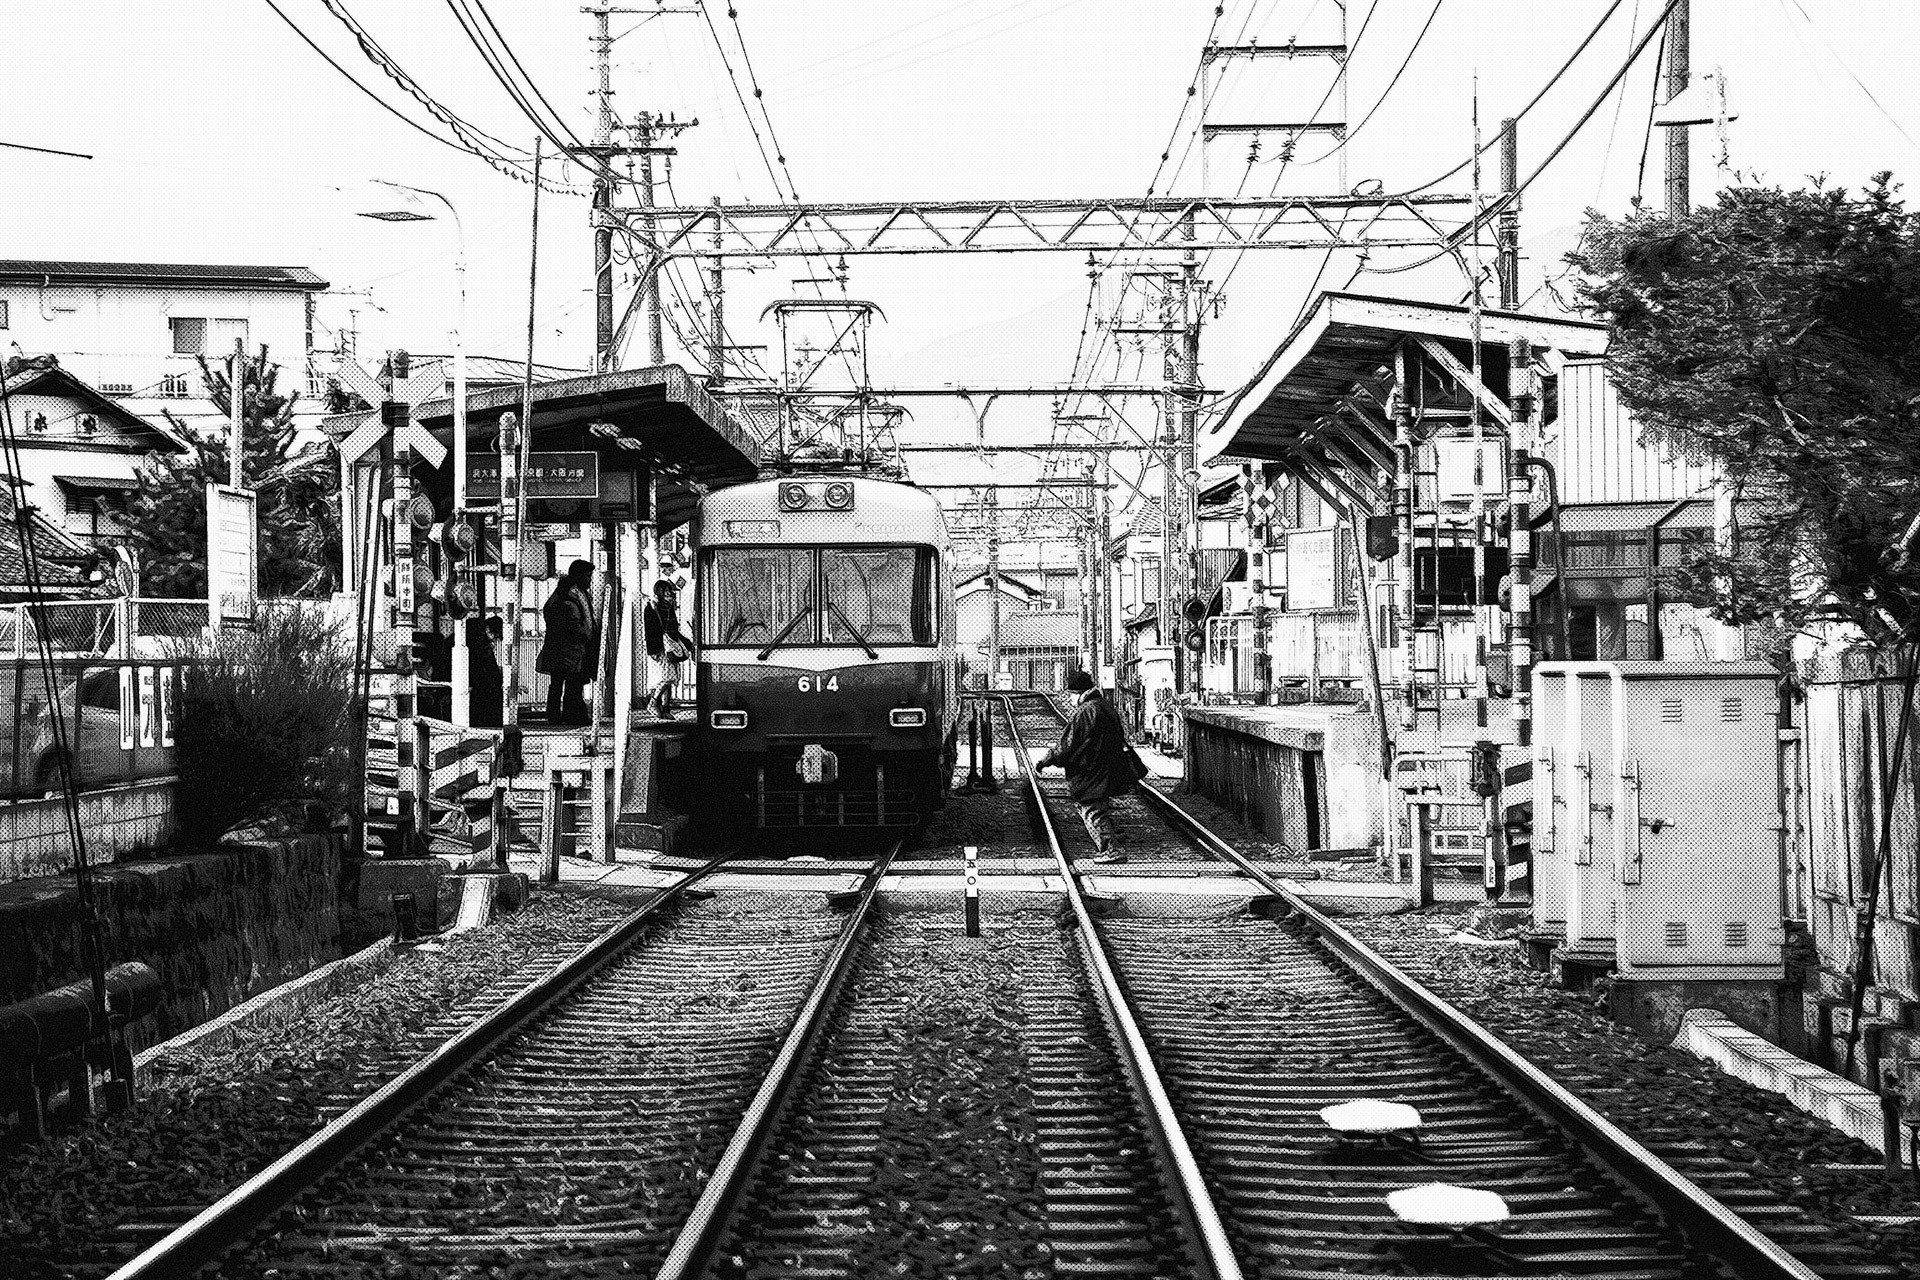
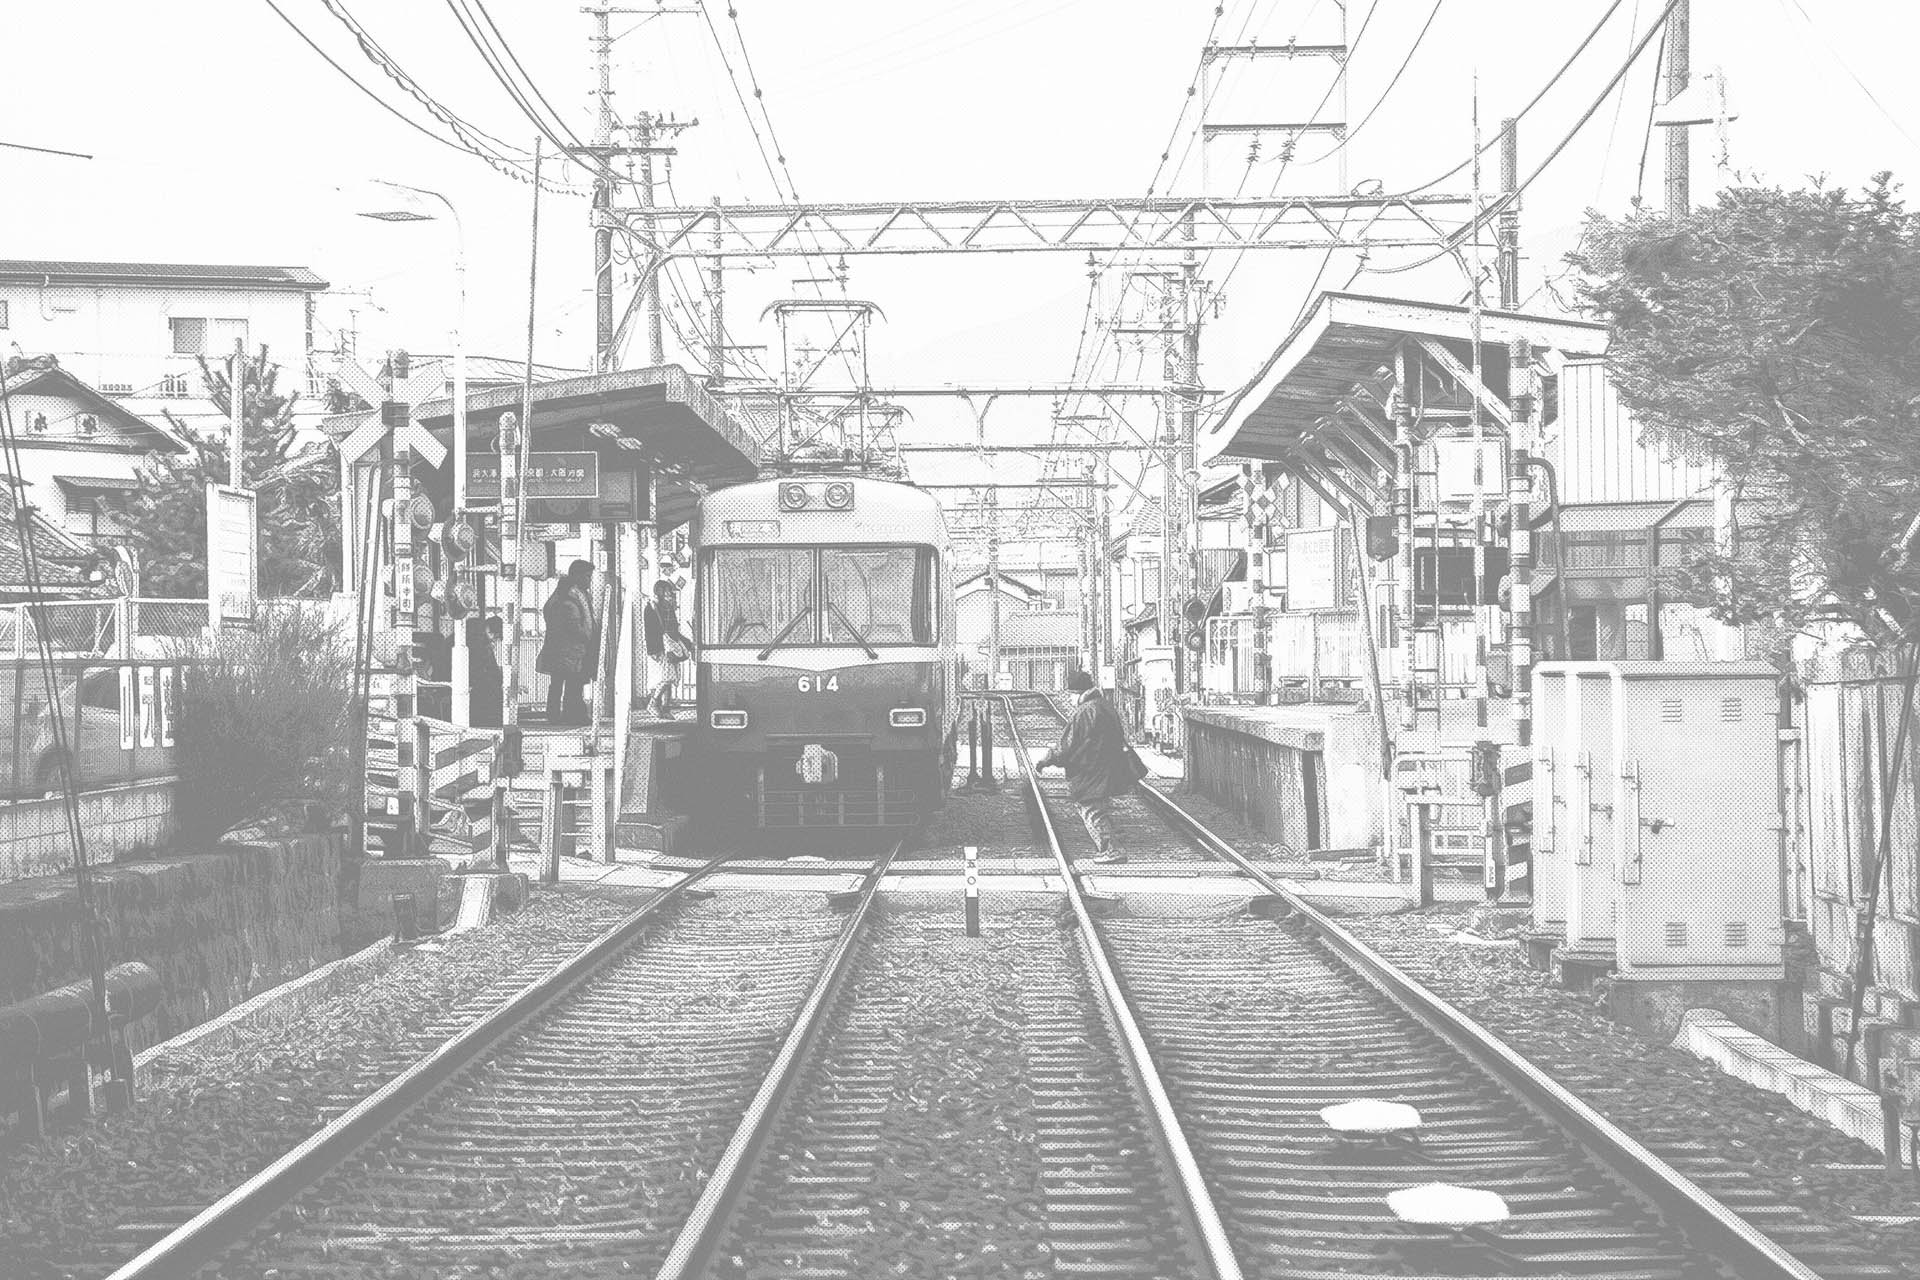
background

diff --git a/src/App.js b/src/App.js
@@ -1,7 +1,7 @@
 import React, { Component } from 'react';
 import Genres from './components/Genres'
 import Cards from './components/Cards'
-import Input from './components/Input'
+
 class App extends Component {
   state = {genre: 1}
   submitted(id){
@@ -14,8 +14,7 @@ class App extends Component {
     return (
   
       <div className="App">
-        {/* <Input callback={this.submitted.bind(this)}/> */}
-        <h3 className="header">🍙 Manga toplist</h3>
+        <h3 className="header"> <span role="img" aria-label="riceball">🍙</span> Manga toplist</h3>
         <Genres genre={this.state.genre} changeGenre={this.changeGenre.bind(this)}/>
         <Cards genre={this.state.genre} changeGenre={this.changeGenre.bind(this)}/>
       </div>

diff --git a/src/index.scss b/src/index.scss
@@ -15,7 +15,7 @@ body {
     sans-serif;
   -webkit-font-smoothing: antialiased;
   -moz-osx-font-smoothing: grayscale;
-  background: url("./images/bg.png");
+  background: url("./images/bg.jpg");
   background-attachment: fixed;
 }
 .App {
